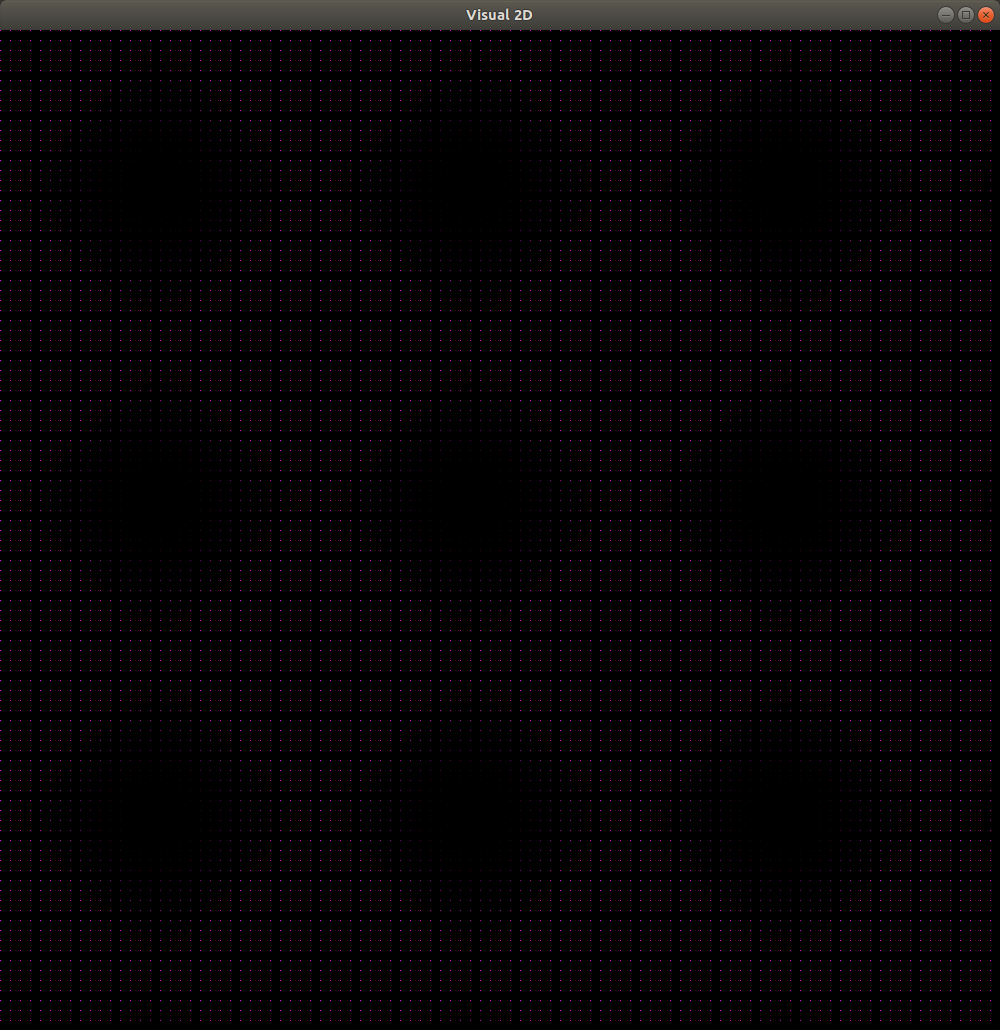
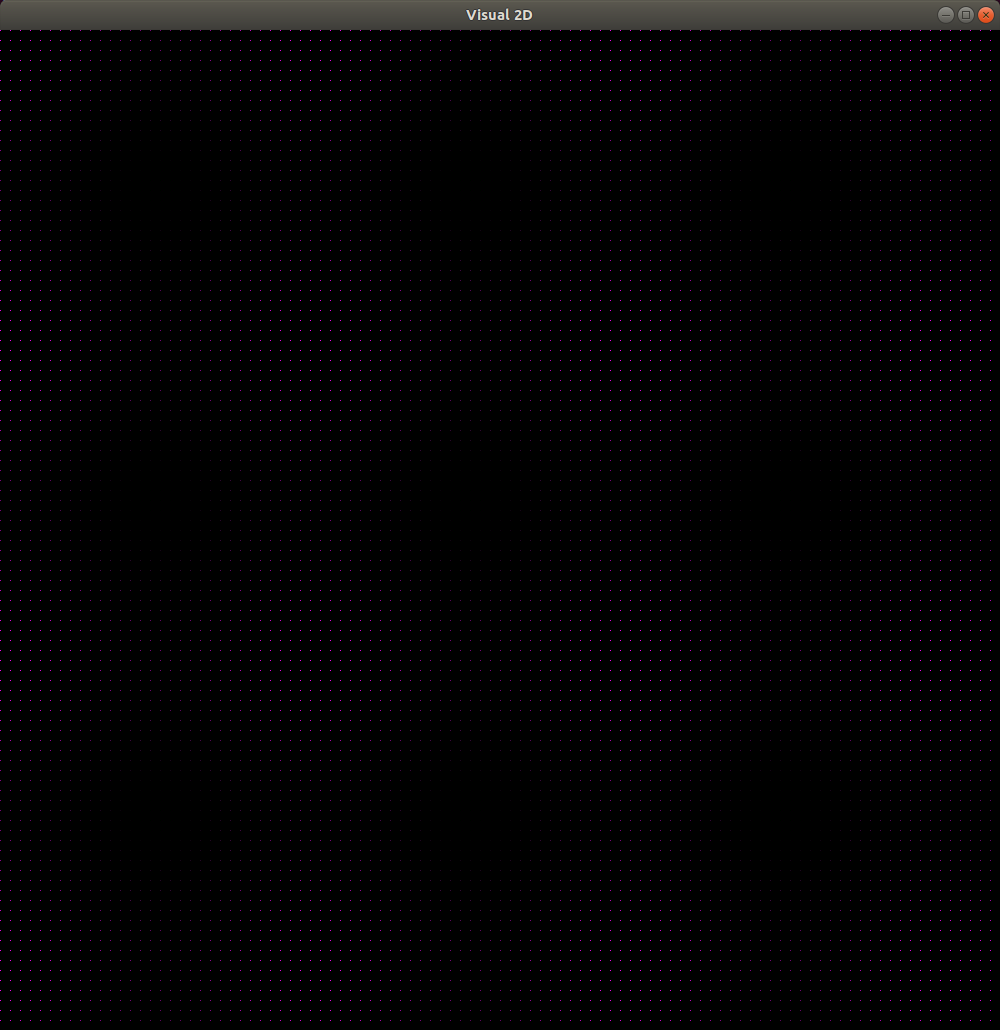
vector_visual README.mkd

diff --git a/sfml/vector_visual/visualize.cpp b/sfml/vector_visual/visualize.cpp
@@ -29,18 +29,33 @@ int main() {
     window.clear();
 
     // Call Visualization function
-    // linear_Range_Shader(window, visualize, Jet_Shader());
-    // linear_Range_Shader(window, visualize, Jet_Shader(), -.1f, .1f);
-    // linear_Range_Shader(window, visualize, Jet_Shader(), -.25f, .25f);
-    // linear_Range_Shader_Mesh(window, visualize, Grayscale_Shader(), 10, -.25f, .25f);
-    // linear_Range_Shader_Dots(window, visualize, Purple_Shader(), 10, 0.f, 1.f);
 
-    make_Or_Break(window, visualize, .15f, sf::Color::Red);
+    // 1 )
+    // linear_Range_Shader(window, visualize, Jet_Shader());
+    
+    // 2 )
+    // linear_Range_Shader(window, visualize, Jet_Shader(), -.1f, .1f);
+    
+    // 3 )
+    // linear_Range_Shader(window, visualize, Jet_Shader(), -.25f, .25f);
+    
+    // 4 )
+    // linear_Range_Shader_Mesh(window, visualize, Grayscale_Shader(), 10, -.25f, .25f);
+    
+    // 5 )
+     linear_Range_Shader_Dots(window, visualize, Purple_Shader(), 10, 0.f, 2.f);
+
+    // 6 )
+    // make_Or_Break(window, visualize, .15f, sf::Color::Red);
+
     window.display();
   }
 
 }
+
 /*
+// 1 )
+
 std::vector<std::vector<float>> get_Vector() {
   std::vector<std::vector<float>> ret(window_size.y, std::vector<float>(window_size.x));
   const float scale = (window_size.y - 1) * (window_size.x - 1);
@@ -55,6 +70,8 @@ std::vector<std::vector<float>> get_Vector() {
 */
 
 /*
+// 2 )
+
 std::vector<std::vector<float>> get_Vector() {
   std::vector<std::vector<float>> ret(window_size.y, std::vector<float>(window_size.x));
   for(int y = 0; auto& row : ret) {
@@ -67,20 +84,10 @@ std::vector<std::vector<float>> get_Vector() {
   return ret;
 }
 */
+
 /*
-std::vector<std::vector<float>> get_Vector() {
-  std::vector<std::vector<float>> ret(window_size.y, std::vector<float>(window_size.x));
-  for(float y = 0.f; auto& row : ret) {
-    for(float x = 0.f; auto& elem : row) {
-      elem = std::sin(x + window_size.x / 2.f) * std::cos(y + window_size.y / 2.f) / 10.f;
-      x+= .01;
-    }
-    y+=.01;
-  }
-  return ret;
-}
-*/
-/*
+// 3 )
+
 std::vector<std::vector<float>> get_Vector() {
   std::vector<std::vector<float>> ret(window_size.y, std::vector<float>(window_size.x));
   for(float y = 0.f; auto& row : ret) {
@@ -95,6 +102,23 @@ std::vector<std::vector<float>> get_Vector() {
 */
 
 /*
+// 4 )
+
+std::vector<std::vector<float>> get_Vector() {
+  std::vector<std::vector<float>> ret(window_size.y, std::vector<float>(window_size.x));
+  for(float y = 0.f; auto& row : ret) {
+    for(float x = 0.f; auto& elem : row) {
+      elem = std::sin(x + window_size.x / 2.f) * std::cos(y + window_size.y / 2.f) / 10.f;
+      x+= .01;
+    }
+    y+=.01;
+  }
+  return ret;
+}
+*/
+
+// 5 )
+
 std::vector<std::vector<float>> get_Vector() {
   std::vector<std::vector<float>> ret(window_size.y, std::vector<float>(window_size.x));
   for(float y = 0.f; auto& row : ret) {
@@ -106,7 +130,9 @@ std::vector<std::vector<float>> get_Vector() {
   }
   return ret;
 }
-*/
+
+/*
+// 6 )
 
 std::vector<std::vector<float>> get_Vector() {
   std::vector<std::vector<float>> ret(window_size.y, std::vector<float>(window_size.x));
@@ -119,4 +145,4 @@ std::vector<std::vector<float>> get_Vector() {
   }
   return ret;
 }
-
+*/
